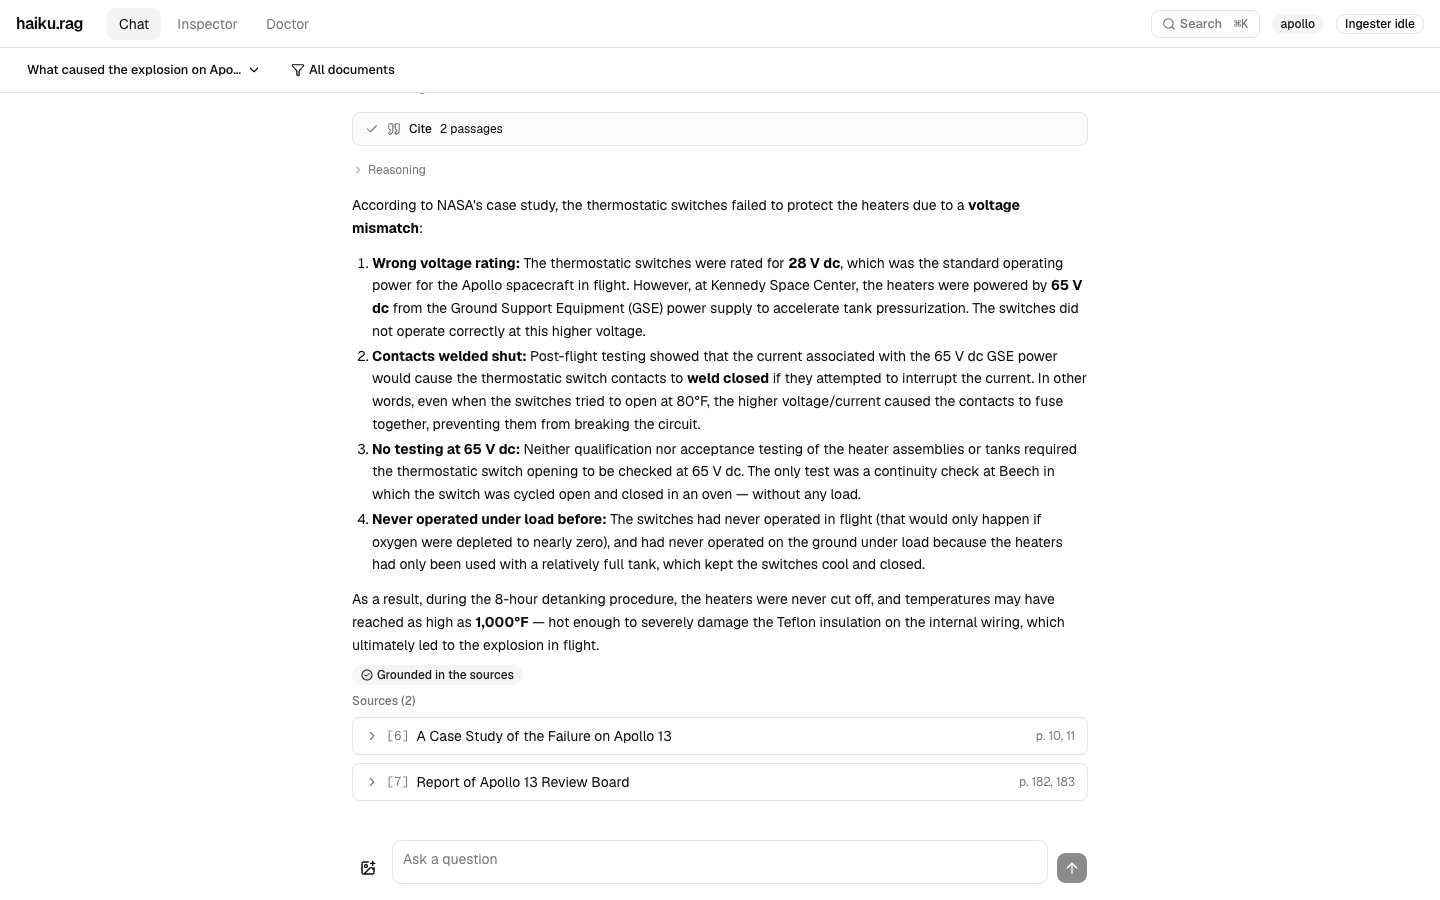
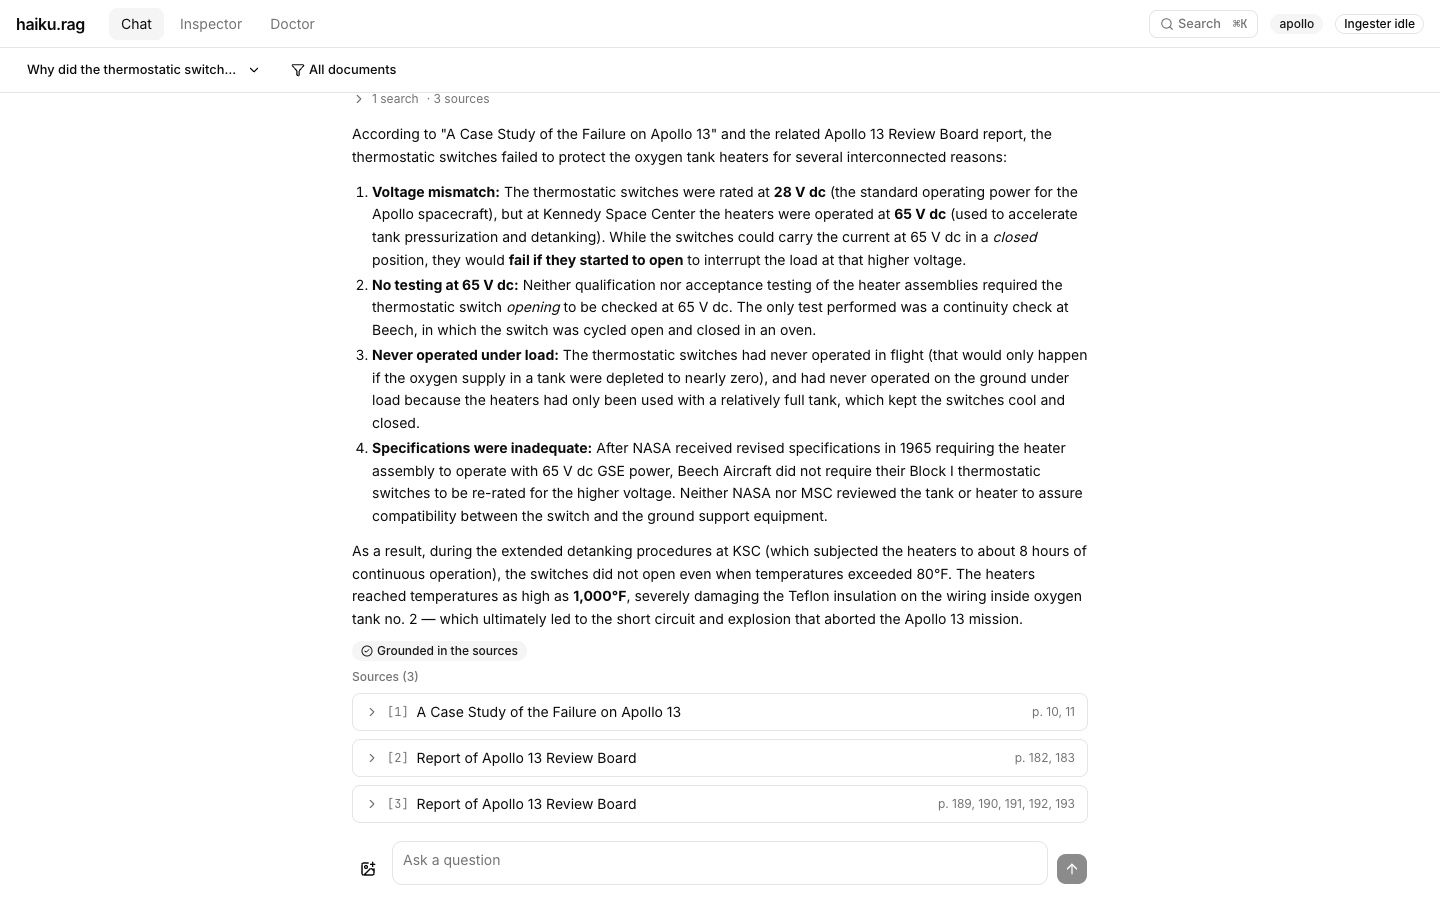
Retake the web app screenshots in the docs
The four images in docs/img show the app as it now looks: the chat with
its steps folded, the verdict-led doctor, the ingestion page and a
scanned chunk on its page, all on the Apollo demo corpus.

diff --git a/docs/apps.md b/docs/apps.md
@@ -2,7 +2,7 @@
 
 The web app is a browser interface to a haiku.rag knowledge base. In it you ask questions and check each answer against its cited passages, follow the ingester as it adds the documents you copy into a folder, inspect documents and their chunks, and run health checks.
 
-![Chat: an answer with the agent's steps and its sources](img/app-chat.png)
+![Chat: an answer, its folded steps and its sources](img/app-chat.png)
 
 !!! warning "No authentication"
     The app has no authentication, and the frontend adds `INGESTER_TOKEN` to every request it forwards to the ingester. Anyone who reaches the frontend reads every configured database and can refresh the ingester's sources and retry or cancel its jobs. The Compose files publish the ports on `127.0.0.1` only. To serve the app beyond the local machine, put the frontend behind a reverse proxy that authenticates users.
